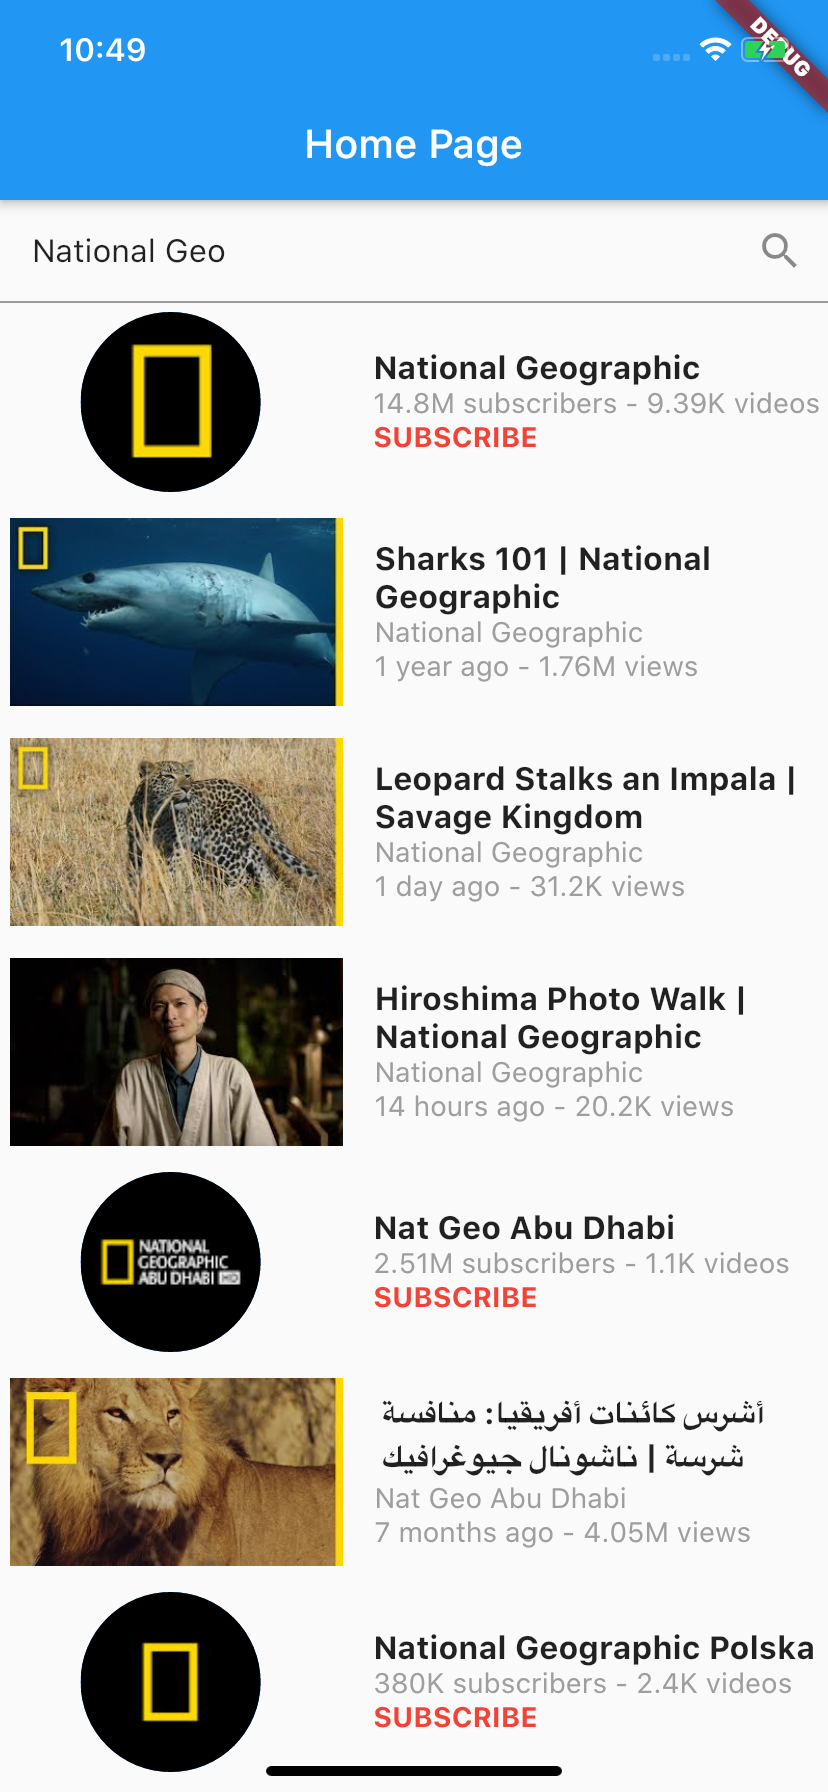
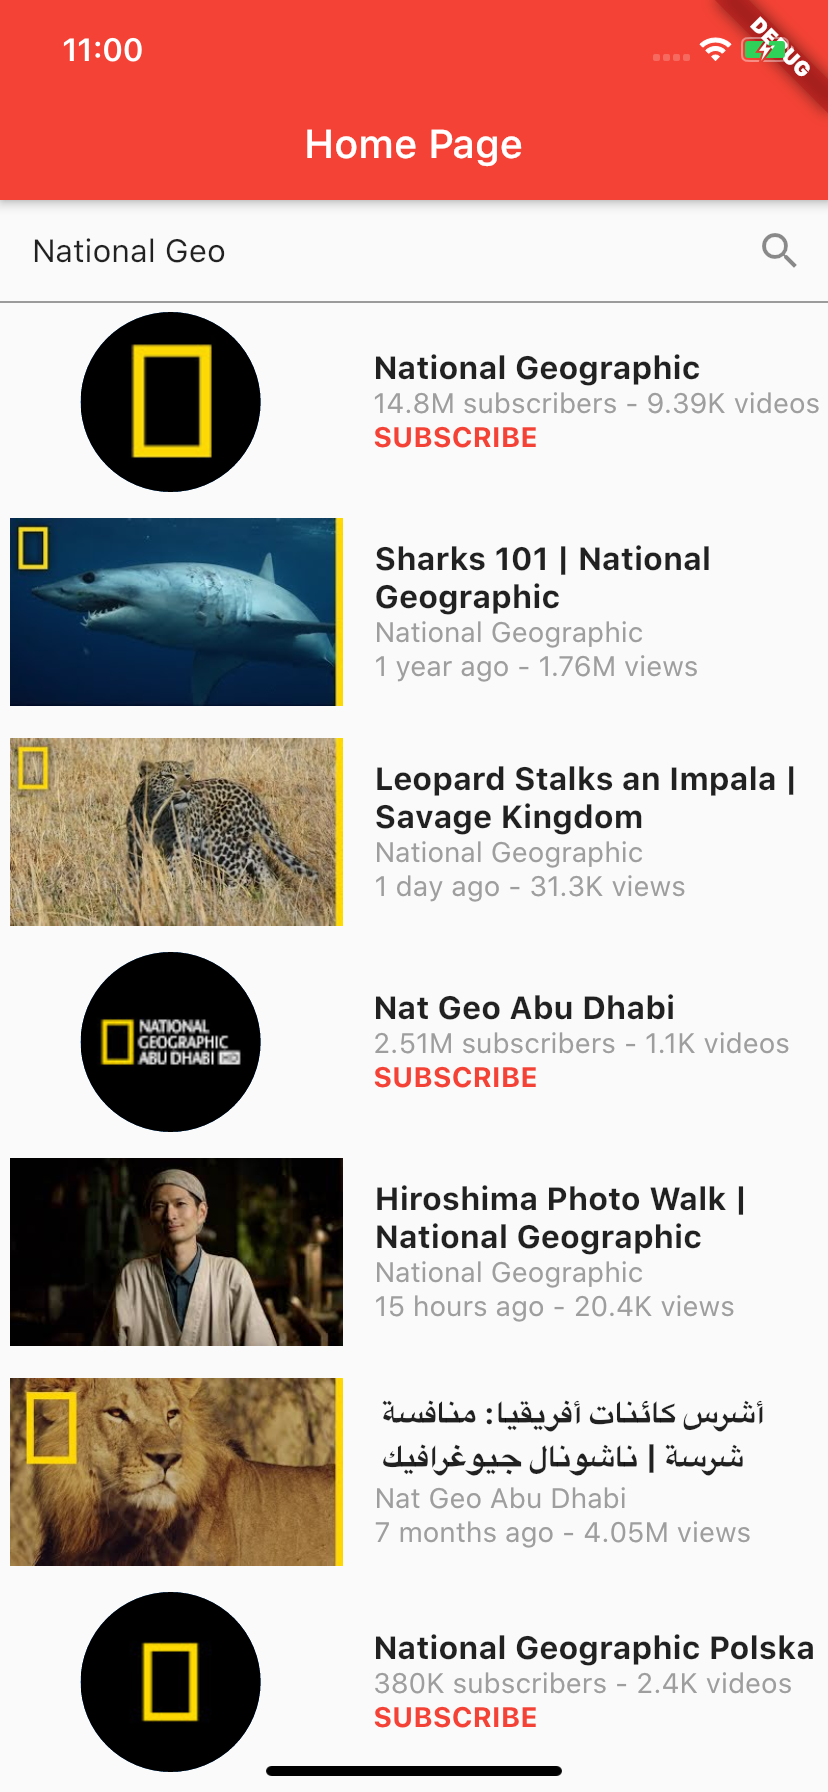
Change AppBar color to red and update screenshots

diff --git a/lib/screens/video_screen.dart b/lib/screens/video_screen.dart
@@ -19,7 +19,9 @@ class VideoScreen extends StatelessWidget {
     );
 
     return Scaffold(
-      appBar: AppBar(),
+      appBar: AppBar(
+        backgroundColor: Color(0xffc4302b),
+      ),
       body: SingleChildScrollView(
         child: Column(
           mainAxisAlignment: MainAxisAlignment.center,

diff --git a/lib/screens/channel_screen.dart b/lib/screens/channel_screen.dart
@@ -11,6 +11,7 @@ class ChannelScreen extends StatelessWidget {
     return Scaffold(
       appBar: AppBar(
         title: Text(channel.title),
+        backgroundColor: Color(0xffc4302b),
       ),
       body: Container(
         child: Center(child: Text('coucou')),

diff --git a/lib/screens/home.dart b/lib/screens/home.dart
@@ -26,6 +26,7 @@ class _HomeState extends State<Home> {
     return Scaffold(
       appBar: AppBar(
         title: Text('Home Page'),
+        backgroundColor: Color(0xffc4302b),
       ),
       body: Column(
         children: [
